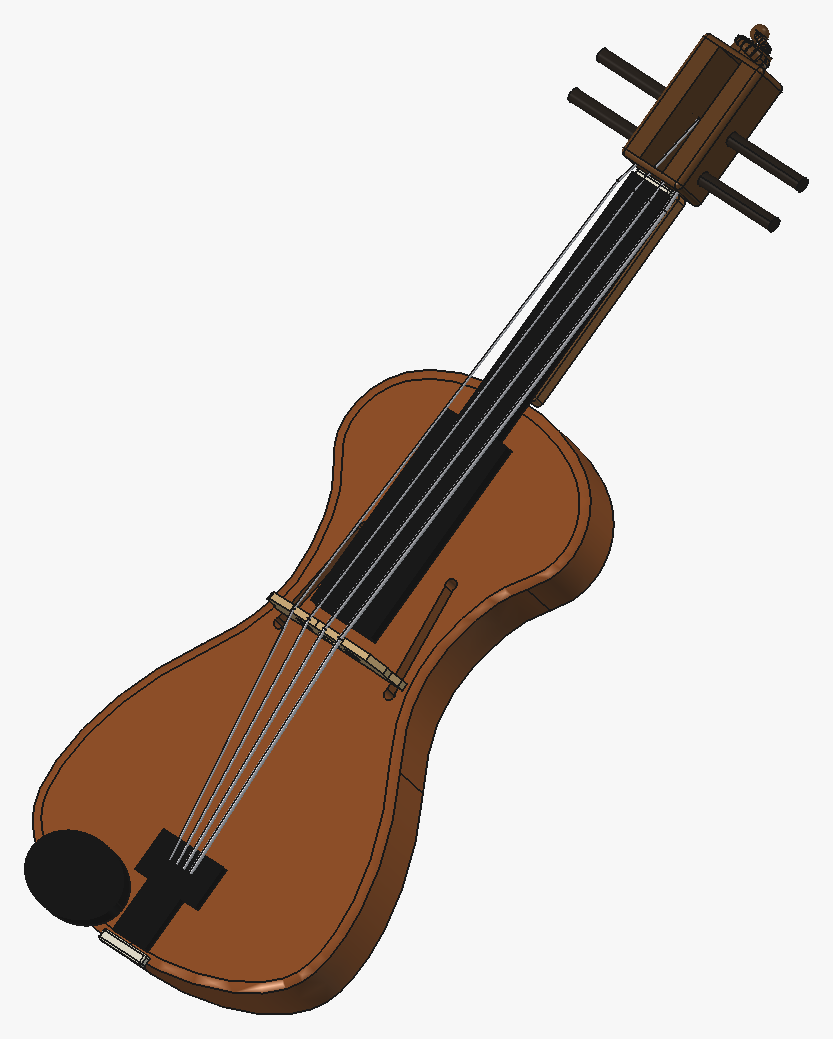
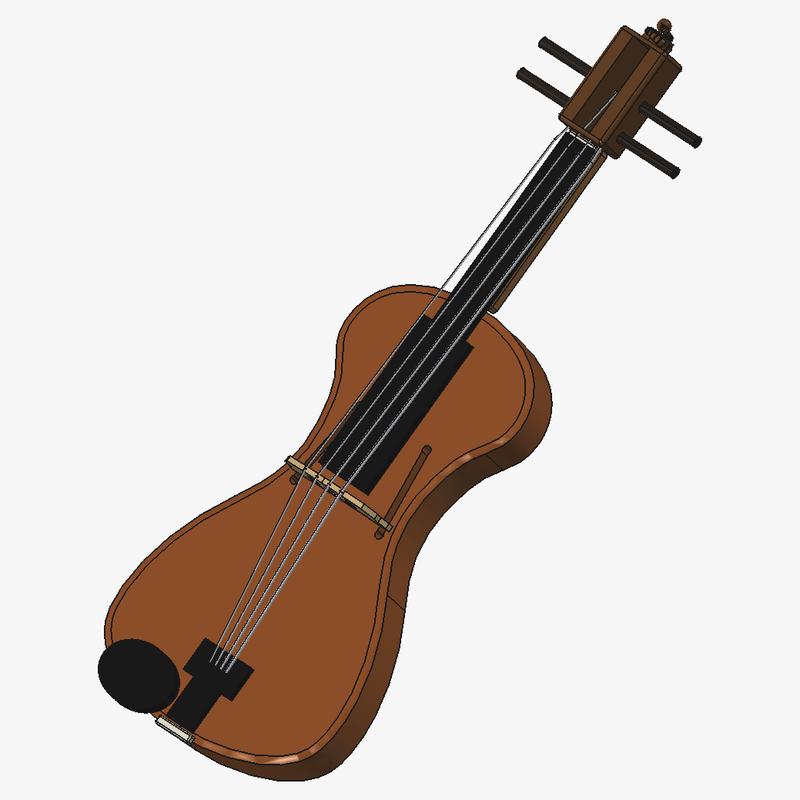
docs: even out showcase grid with square thumbnails at fixed width

Changed region(s): [[0.0312, 0.0, 0.9688, 1.0]]

diff --git a/README.zh-CN.md b/README.zh-CN.md
@@ -10,9 +10,9 @@ AI 通过 CADPilot 构建的模型 —— 演示文件位于 [`examples/`](examp
 
 | 双肩包 | 台式风扇 |
 | :---: | :---: |
-| [![CADPilot 建模的双肩包](examples/Backpack.png)](examples/Backpack.FCStd) | [![CADPilot 建模的台式风扇](examples/DeskFan.png)](examples/DeskFan.FCStd) |
+| [<img src="examples/Backpack.png" width="300" alt="CADPilot 建模的双肩包">](examples/Backpack.FCStd) | [<img src="examples/DeskFan.png" width="300" alt="CADPilot 建模的台式风扇">](examples/DeskFan.FCStd) |
 | **小提琴** | **树叶** |
-| [![CADPilot 建模的小提琴](examples/Violin.png)](examples/Violin.FCStd) | [![CADPilot 建模的树叶](examples/Leaf.png)](examples/Leaf.FCStd) |
+| [<img src="examples/Violin.png" width="300" alt="CADPilot 建模的小提琴">](examples/Violin.FCStd) | [<img src="examples/Leaf.png" width="300" alt="CADPilot 建模的树叶">](examples/Leaf.FCStd) |
 
 ## 特点
 

diff --git a/README.md b/README.md
@@ -10,9 +10,9 @@ Models built by the AI through CADPilot — demo files live in [`examples/`](exa
 
 | Backpack | Desk Fan |
 | :---: | :---: |
-| [![Backpack modeled by CADPilot](examples/Backpack.png)](examples/Backpack.FCStd) | [![Desk fan modeled by CADPilot](examples/DeskFan.png)](examples/DeskFan.FCStd) |
+| [<img src="examples/Backpack.png" width="300" alt="Backpack modeled by CADPilot">](examples/Backpack.FCStd) | [<img src="examples/DeskFan.png" width="300" alt="Desk fan modeled by CADPilot">](examples/DeskFan.FCStd) |
 | **Violin** | **Leaf** |
-| [![Violin modeled by CADPilot](examples/Violin.png)](examples/Violin.FCStd) | [![Leaf modeled by CADPilot](examples/Leaf.png)](examples/Leaf.FCStd) |
+| [<img src="examples/Violin.png" width="300" alt="Violin modeled by CADPilot">](examples/Violin.FCStd) | [<img src="examples/Leaf.png" width="300" alt="Leaf modeled by CADPilot">](examples/Leaf.FCStd) |
 
 ## Features
 
